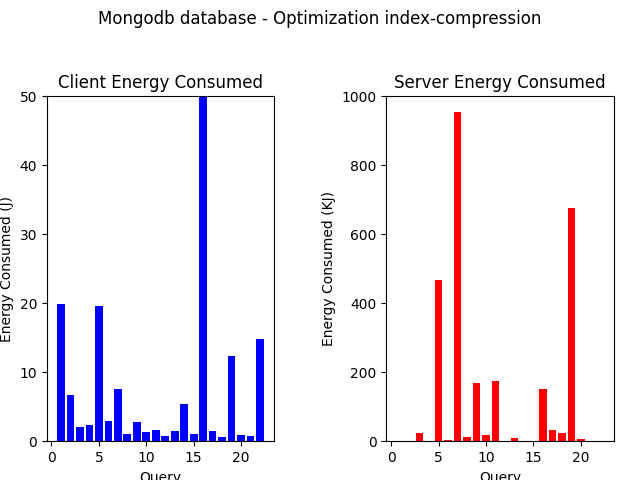
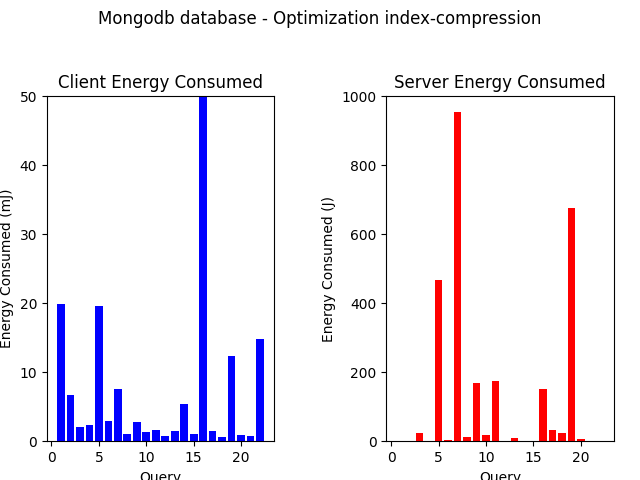
Fixing Units

Changed region(s): [[0.5, 0.4062, 0.5312, 0.7188], [0.0, 0.4062, 0.0312, 0.7188]]

diff --git a/Data_Analysis/analysis_client_server_results.py b/Data_Analysis/analysis_client_server_results.py
@@ -114,13 +114,13 @@ def plot_queries_energy_comparation(optimization_key, database_key, results):
     axis[0].bar(key, values_client, color = 'b')
     axis[0].set_title('Client Energy Consumed')
     axis[0].set_xlabel('Query')
-    axis[0].set_ylabel('Energy Consumed (J)')
+    axis[0].set_ylabel('Energy Consumed (mJ)')
     axis[0].set_ylim(0, 50)
     
     axis[1].bar(key, values_server, color = 'r')
     axis[1].set_title('Server Energy Consumed')
     axis[1].set_xlabel('Query')
-    axis[1].set_ylabel('Energy Consumed (KJ)')
+    axis[1].set_ylabel('Energy Consumed (J)')
     
     plt.savefig('figures/{}-{}-queries_energy_comparation.png'.format(database_key, optimization_key))
     
@@ -156,14 +156,14 @@ def plot_mean_energy_by_optimization(database_key, results):
         
     axis[0].set_title('Client Energy Consumed')
     axis[0].set_xlabel('Optimization')
-    axis[0].set_ylabel('Mean Energy Consumed (J)')
+    axis[0].set_ylabel('Mean Energy Consumed (mJ)')
     axis[0].get_xaxis().set_visible(False)
     axis[0].legend()
     axis[0].set_ylim(0,50)
     
     axis[1].set_title('Server Energy Consumed')
     axis[1].set_xlabel('Optimization')
-    axis[1].set_ylabel('Mean Energy Consumed (KJ)')
+    axis[1].set_ylabel('Mean Energy Consumed (J)')
     axis[1].get_xaxis().set_visible(False)
     axis[1].legend()
     plt.savefig('figures/{}-means_energy_by_optimization.png'.format(database_key))
